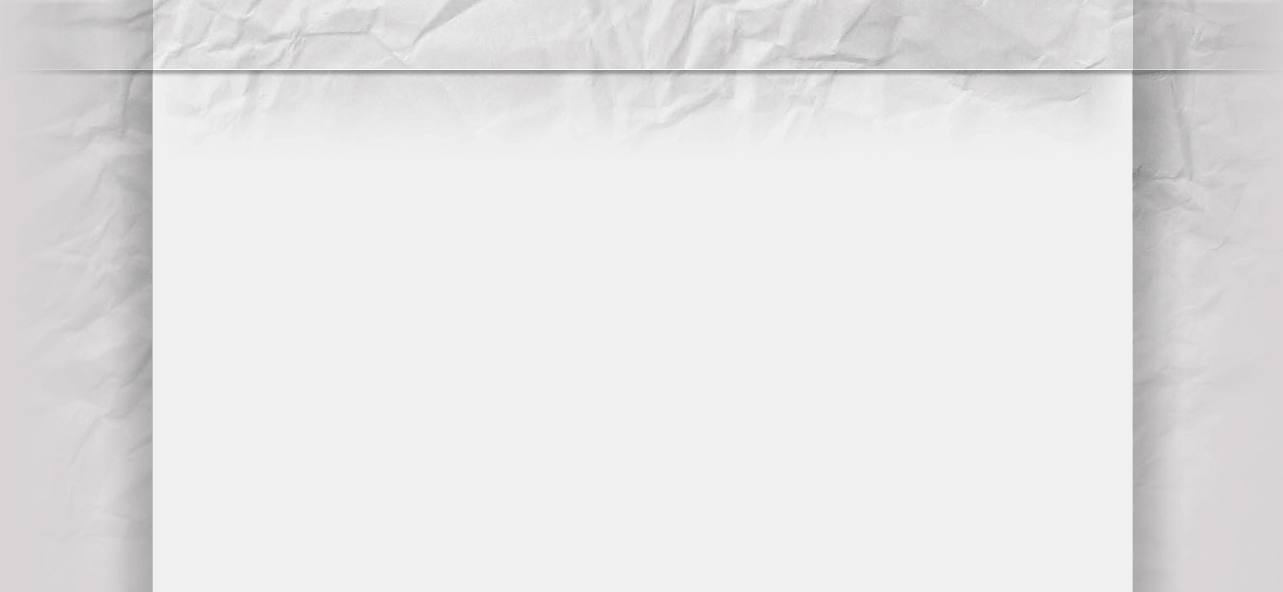
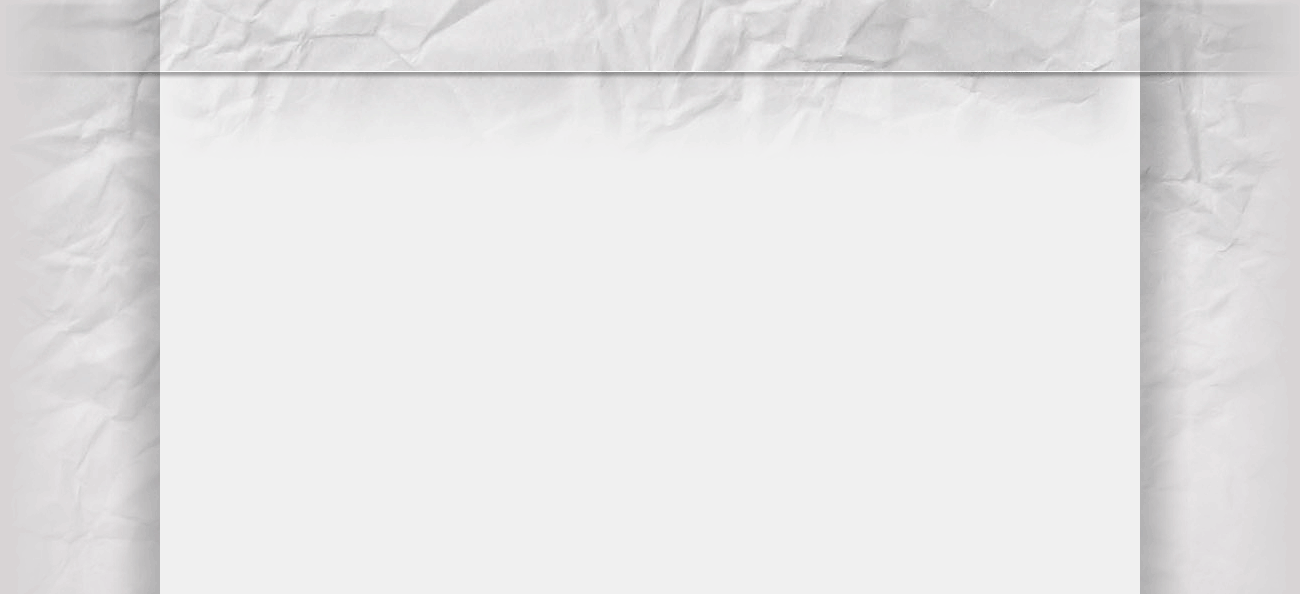
Added secondary nav and fixes for amended background

Changed region(s): [[0.0624, 0.0, 0.9353, 1.0]]

diff --git a/stylesheets/custom.css b/stylesheets/custom.css
@@ -10,8 +10,9 @@ body { background: url('../images/background.png') top center repeat-y #d8d4d5; 
 	-------------------------------------------------- */
 	
 #header {
-	max-width: 978px;
+	max-width: 980px;
 	margin:auto;
+	position: relative;
 }
 
 
@@ -29,7 +30,7 @@ body { background: url('../images/background.png') top center repeat-y #d8d4d5; 
 	-------------------------------------------------- */
 
 #container {
-	max-width: 938px;
+	max-width: 940px;
 	margin:auto;
 	padding-left: 20px;
 	padding-right: 20px;
@@ -73,8 +74,14 @@ body { background: url('../images/background.png') top center repeat-y #d8d4d5; 
 	margin: 20px 0px 0px 0px;
 }
 
+#strapline 
+{
+	max-height: 150px;
+	overflow: hidden;
+}
 
-#masthead { background:none; }
+
+#masthead { background:none; clear:both; }
 
 #masthead h1
 {
@@ -95,9 +102,9 @@ body { background: url('../images/background.png') top center repeat-y #d8d4d5; 
    	Navigation
 	-------------------------------------------------- */
 
-nav { height: 54px; }
+#primaryNav { height: 54px; }
 
-.nav-bar {
+#primaryNav .nav-bar {
 	background: url('../images/menubar.png') top left no-repeat;
 	height: inherit;
 	border:none;
@@ -105,15 +112,27 @@ nav { height: 54px; }
 	/* background: url('../images/menu_background.png') repeat-x; */
 }
 
-.nav-bar li {
+#primaryNav .nav-bar li {
 	border:none;
 	font-color:white;
 	text-shadow: 0px 1px 0px #F4F4F4;
 	font-weight: bold;
 }
 
-.nav-bar li a	{ font-color: #000; }
-.nav-bar a 		{ color: #3C3C3C; }
+#primaryNav .nav-bar li:hover {
+	opacity: 0.6;
+}
+
+#primaryNav .nav-bar li a	{ font-color: #000; }
+#primaryNav .nav-bar a 		{ color: #3C3C3C; }
+
+#secondaryNav { 
+	/*float: right;*/
+	position: absolute;
+	right:0;
+	top:30px;
+
+}
 
 
 
@@ -131,4 +150,12 @@ h2 {
 	line-height: 100%;
 	font-size: 3.2rem;
 	
+}
+
+/*	--------------------------------------------------
+   	Buttons
+	-------------------------------------------------- */
+
+.button:hover {
+	opacity: 0.5;
 }

diff --git a/index.html b/index.html
@@ -51,16 +51,25 @@
 
 			<div id="header">
 				
+				<nav id="secondaryNav">
+					<ul class="nav-bar">
+						<li> <a href="#" class="main">LOGIN</a></li>
+						<li> <a href="#" class="main">SIGN UP</a></li>
+					</ul>
+				</nav>
+				
 				<div class="row" id="branding">
 						<div class="twelve columns">
 								<img src="images/Logo.png"></img>
+								
+		
 						</div>
 				</div>
 
 				<div class="row" id="masthead" >
 					<div class="twelve columns" >
 
-						<nav>
+						<nav id="primaryNav">
 							<ul class="nav-bar">
 								<li> <a href="#" class="main">HOME</a></li>
 								<li> <a href="#" class="main">ABOUT</a></li>
@@ -91,8 +100,11 @@
 				
 				<div class="six columns" id="straplineArea">
 				
-						<h2>We provide access to the best funding, mentoring and incubation to propel your creative business.</h2>
-						<p>To be sure to be sure to be sure...</p>
+						<div id="strapline">
+							<h2>We provide access to the best funding, mentoring and incubation to propel your creative business.</h2>
+							<p>To be sure to be sure to be sure...</p>
+						</div> <!-- Strapline -->
+						
 						<a class="black large button radius" href="#">Find out more »</a>
 				
 				</div> <!-- six columns -->
@@ -165,6 +177,9 @@
 	<script src="javascripts/jquery.tooltips.js"></script>
 	<!-- End Combine and Compress These JS Files -->
 	<script src="javascripts/app.js"></script>
+	
+	<!-- MeWe Custom JS -->
+	<!-- <script src="javascripts/custom.js"></script> -->
 	
 	<script type="text/javascript">
 	     $(window).load(function() {
